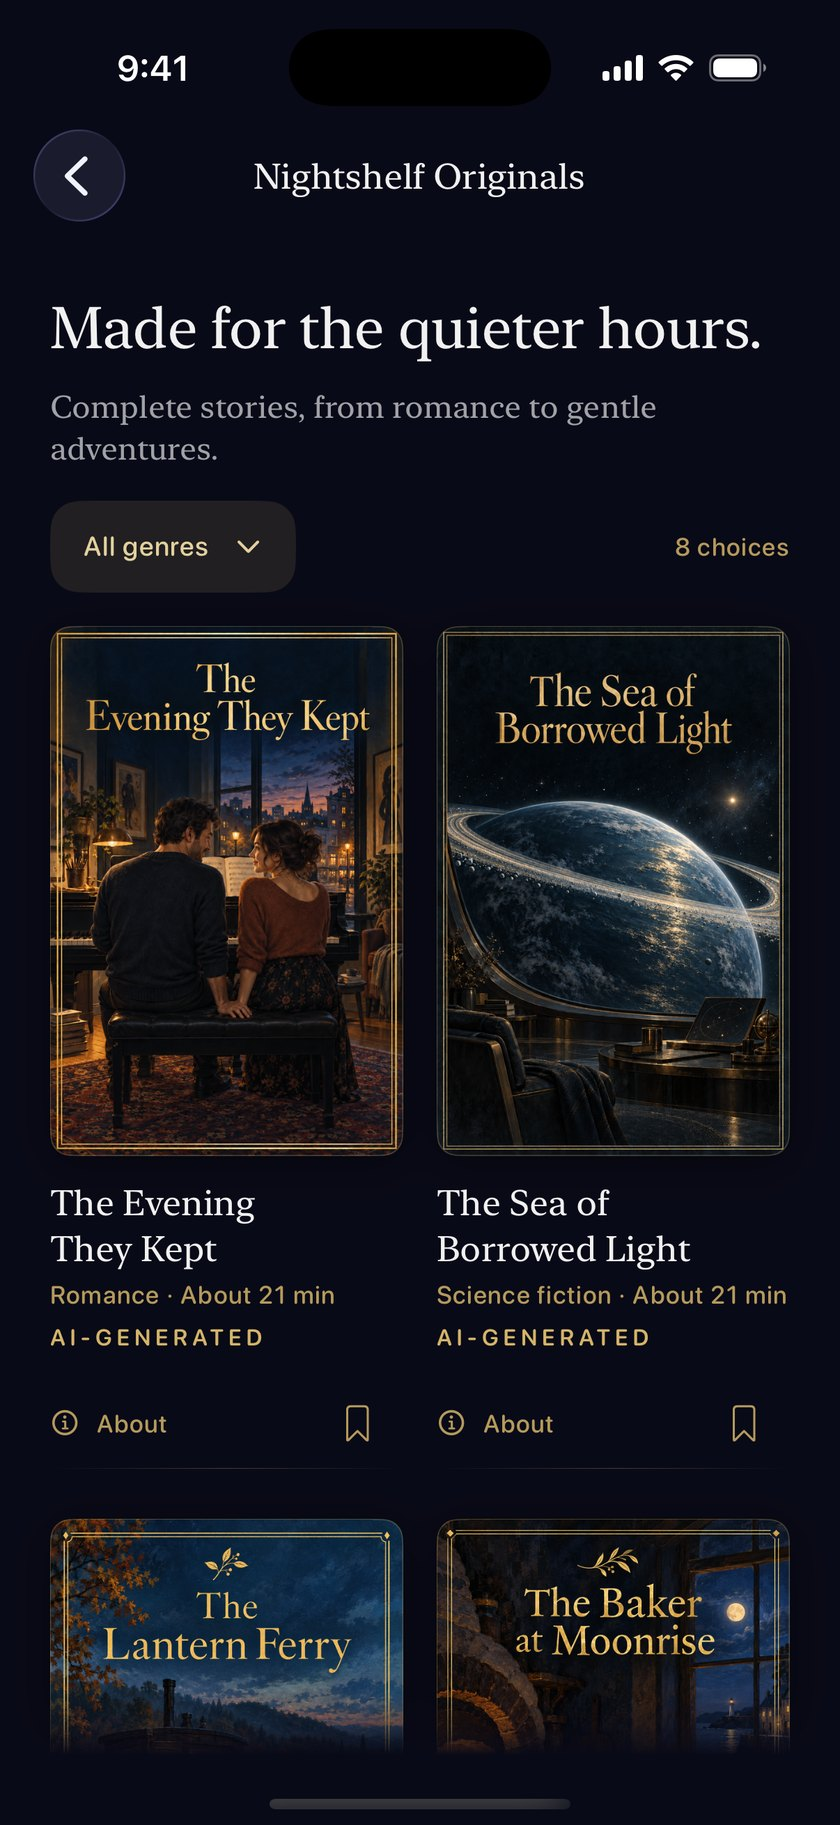
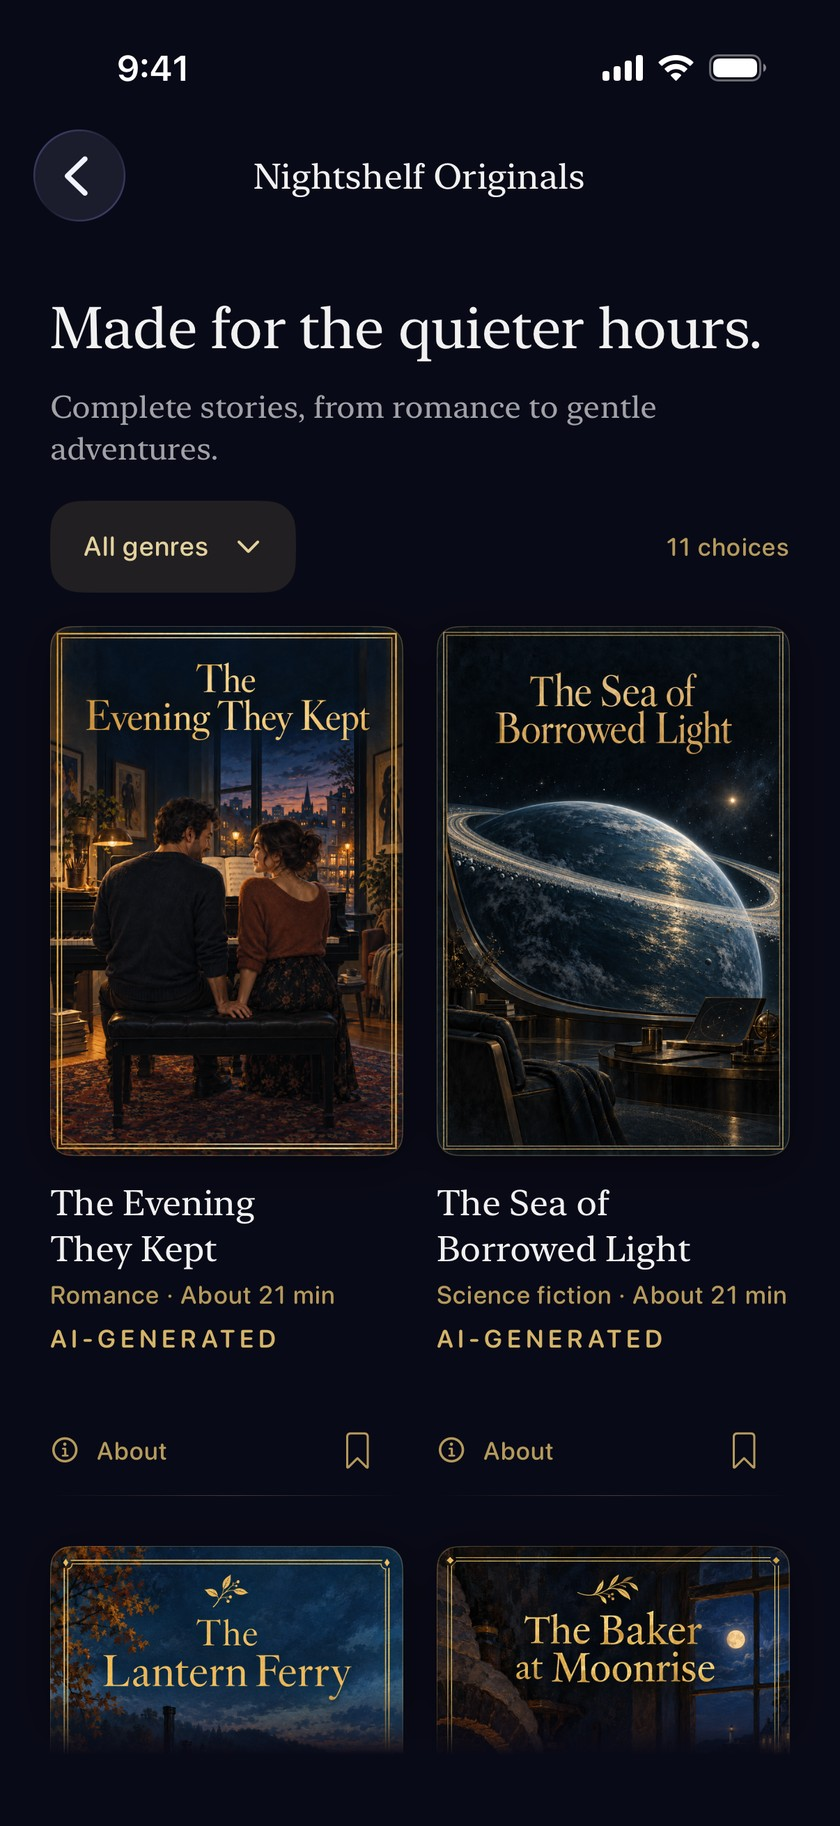
Refresh Originals gallery for eleven-story catalog

diff --git a/nightshelf/index.html b/nightshelf/index.html
@@ -764,7 +764,7 @@
         <div class="gallery-row">
           <figure class="shot"><div class="frame"><img src="shots/home.jpg?v=20260922" alt="The Nightshelf home screen — Short listens, Tales of Mother Goose as the featured classic, and the bedtime-story writer." loading="lazy" width="840" height="1826" data-allow-duplicate="true"></div><figcaption class="cap">A shelf for the night</figcaption></figure>
           <figure class="shot"><div class="frame"><img src="shots/reader.jpg?v=20260922" alt="The Nightshelf reader playing The Wind in the Willows aloud — 15-second skips, a chapter progress bar, and a sleep timer that fades the narration out." loading="lazy" width="840" height="1826"></div><figcaption class="cap">Read along, or listen</figcaption></figure>
-          <figure class="shot"><div class="frame"><img src="shots/originals.jpg?v=20260915" alt="Nightshelf Originals — complete bedtime stories written with AI for Nightshelf, from a quiet romance to a discovery among the stars, each marked AI-generated." loading="lazy" width="840" height="1825"></div><figcaption class="cap">Nightshelf Originals</figcaption></figure>
+          <figure class="shot"><div class="frame"><img src="shots/originals.jpg?v=20260923" alt="Nightshelf Originals — complete bedtime stories written with AI for Nightshelf, from a quiet romance to a discovery among the stars, each marked AI-generated." loading="lazy" width="840" height="1826"></div><figcaption class="cap">Nightshelf Originals</figcaption></figure>
           <figure class="shot"><div class="frame"><img src="shots/ambient.jpg?v=20260915" alt="The Nightshelf ambient-sound picker — rain playing softly under the story, with its own volume, and fireplace, ocean and more to choose from." loading="lazy" width="840" height="1825"></div><figcaption class="cap">Ambient sound underneath</figcaption></figure>
           <figure class="shot"><div class="frame"><img src="shots/chapters.jpg?v=20260922" alt="The Nightshelf chapter list for The Wind in the Willows, with each chapter's listening time — jump to any chapter with one tap." loading="lazy" width="840" height="1826"></div><figcaption class="cap">Skip to any chapter</figcaption></figure>
         </div>
